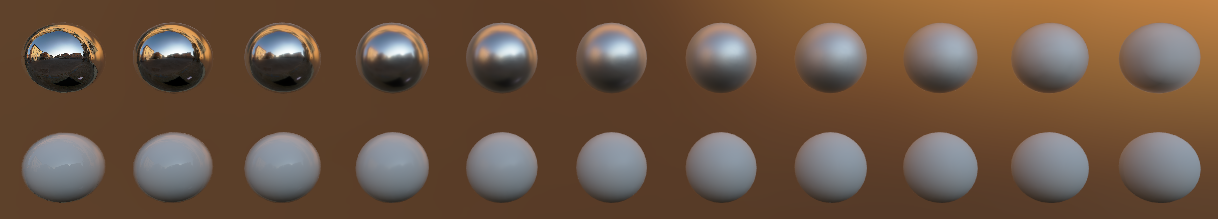
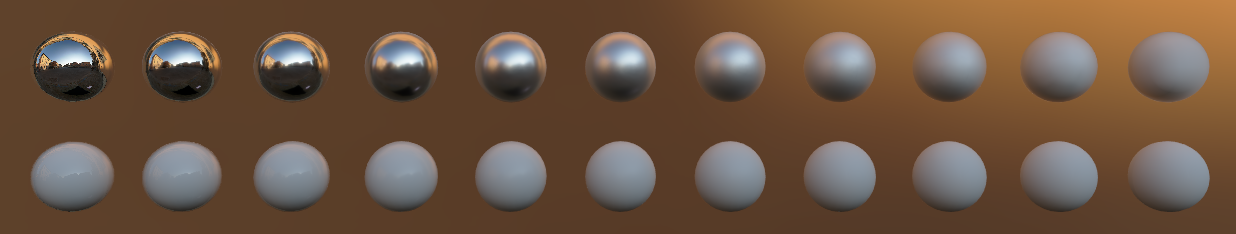
More edits for IBL blog post

diff --git a/content/blog/ibl/index.md b/content/blog/ibl/index.md
@@ -1,6 +1,6 @@
 ---
-title: Image Based Lighting
-date: "2019-08-10T15:00:00Z"
+title: Image Based Lighting with Multiple Scattering
+date: "2019-08-19T15:00:00Z"
 description: A guide to adding image based lighting that uses a multi-scattering
 ---
 
@@ -316,13 +316,13 @@ $$
 \right)
 $$
 
-Karis doesn't provide any mathematic justification for the additional summation in the denominator, or why we should evaluate $L_i$ by importance sampling GGX, but as TODO
+Karis doesn't provide any mathematic justification for the additional summation in the denominator, or why we should evaluate $L_i$ by importance sampling GGX, but as [noted by Sebastian Legarde](https://seblagarde.files.wordpress.com/2015/07/course_notes_moving_frostbite_to_pbr_v32.pdf) (pg. 64) these empirical terms seem to provde the best correction for our split sum approximation for a constant $L_i$.
 
-However, one big problem with this is that the GGX NDF is dependent on $\mathbf{v}$ -- which creates "stretchy" reflections. Karis approximates the NDF as _isotropic_ where $\mathbf{n} = \mathbf{v}$. This is a much larger source of error than the split sum, and is demonstrated by the figure below:
+However, one big problem with this is that the GGX NDF is dependent on $\mathbf{v}$ -- which creates "stretchy" reflections. Karis approximates the NDF as _isotropic_ where $\mathbf{n} = \mathbf{v}$. This is a much larger source of error than the split sum, and is demonstrated by the figure below, which was taken from the previously mentioned [_Moving Frostbite to PBR_ course notes](https://seblagarde.files.wordpress.com/2015/07/course_notes_moving_frostbite_to_pbr_v32.pdf):
 
 ![Comparison showing the error of our isotropic assumption](./isotropic_error.png "Left: Reflections produced by Isotropic approximation. Right: Reference with standard GGX NDF.")
 
-Notice the anisotropic reflections on the right that we lose with the approximation. Taken from the [_Moving Frostbite to PBR_ course notes](https://seblagarde.files.wordpress.com/2015/07/course_notes_moving_frostbite_to_pbr_v32.pdf). While the error is large, it's the price we must pay to be able to perform this sum outside of our render loop when $\mathbf{v}$ is known.
+Notice the anisotropic reflections on the right that we lose with the approximation. . While the error is large, it's the price we must pay to be able to perform this sum outside of our render loop when $\mathbf{v}$ is known.
 
 When it comes to storing the pre-filtered environment map, it's important to note once again that we're creating a different map for different roughness levels of our choosing. Since we'll lose high frequency information as roughness increases, we can actually use mip map layers to store the filtered map, with higher roughnesses corresponding to higher mip levels.
 
@@ -667,12 +667,11 @@ We can see how as the roughness increases, we're using our blurrier prefiltered 
 
 ![Rendering the spheres inside an environment with constant incident radiance](./single_scattering_furnace.png "Rendering the spheres inside an environment with constant L_i = 0.5")
 
-
-Here's it's very obvious that something is amiss. Physically, TODO: rework there's no reason why our metal would become this much darker even as roughness increases. The reason this is occurring within our model is that we are using a first order approximation which includes only the single scattering events. In reality, light will scatter several times across the surface, as demonstrated in this diagram from [Heitz et al, 2015](https://eheitzresearch.wordpress.com/240-2/):
+Here the darkening is much more pronounced. About 40% of the energy is being lost, but since our spheres have a "white" albedo, this is violating conservation of energy. Recall that our model is simply a first order approximation which includes only the single scattering events. In reality, light will scatter several times across the surface, as this diagram from [Heitz et al, 2015](https://eheitzresearch.wordpress.com/240-2/) illustrates:
 
 ![Diagram illustrating multiple scattering events, from Heitz et al. 2015](./multiple_scattering_diagram.png "Diagram illustrating multiple scattering events, from Heitz et al. 2015")
 
-As the material becomes rougher, the multiscattering events account for a larger proportion of the reflected energy, and our approximation break down.
+As the material becomes rougher, the multiscattering events account for a larger proportion of the reflected energy, and our approximation break down. So we need some way of recovering this lost energy if we want to have more plausible results.
 
 ## Accounting for Multiple-Scattering
 
@@ -806,7 +805,7 @@ Let's look at our final results using the same comparison as before, but with di
 
 ![Comparison of our BRDF using dielectric spheres](./comparison_dielectrics.png "Comparison using dielectric spheres, with the single scattering BRDF in use on the left and the multiple scattering BRDF on the right")
 
-Interestingly, I actually get a darker result with multiple scattering than with single scattering. I'm not totally convinced that this isn't some subtle bug in my implementation of TODO However, the significant excess energy at lower roughnesses that we observe with the single scattering BRDF is not present with our new BRDF. Here's a final render using the Pisa environment, as before, but this time with our new BRDF:
+Interestingly, I actually get a darker result with multiple scattering than with single scattering. I'm not totally convinced that this isn't some subtle bug in my implementation of the dielectric part of my BRDF. However, the significant excess energy at lower roughnesses that we observe with the single scattering BRDF is not present with our new BRDF. Here's a final render using the Pisa environment, as before, but this time with our new BRDF:
 
 ```grid|2|Left: Single scattering. Right: Multiple scattering
 ![Rendering of spheres of increasing roughness using our single scattering BRDF, from left to right. Top row is metal, bottom rows are dielectric.](./pisa_single_scattering_balls.png)
@@ -834,6 +833,8 @@ Here's a series of renders for you to compare, using the [FlightHelmet](https://
 ![Flight Helmet rendered using standard single scattering BRDF](./flight_helmet_multiscattering_standard_fresnel.png)
 ![Flight Helmet rendered using standard single scattering BRDF](./flight_helmet_multiscattering_roughness_fresnel.png)
 ```
+
+You can also see the brightening of the metal goggles and base's plaque, but otherwise this model is mostly composed of dielectric materials.
 
 #### GLSL Shader Code
 
